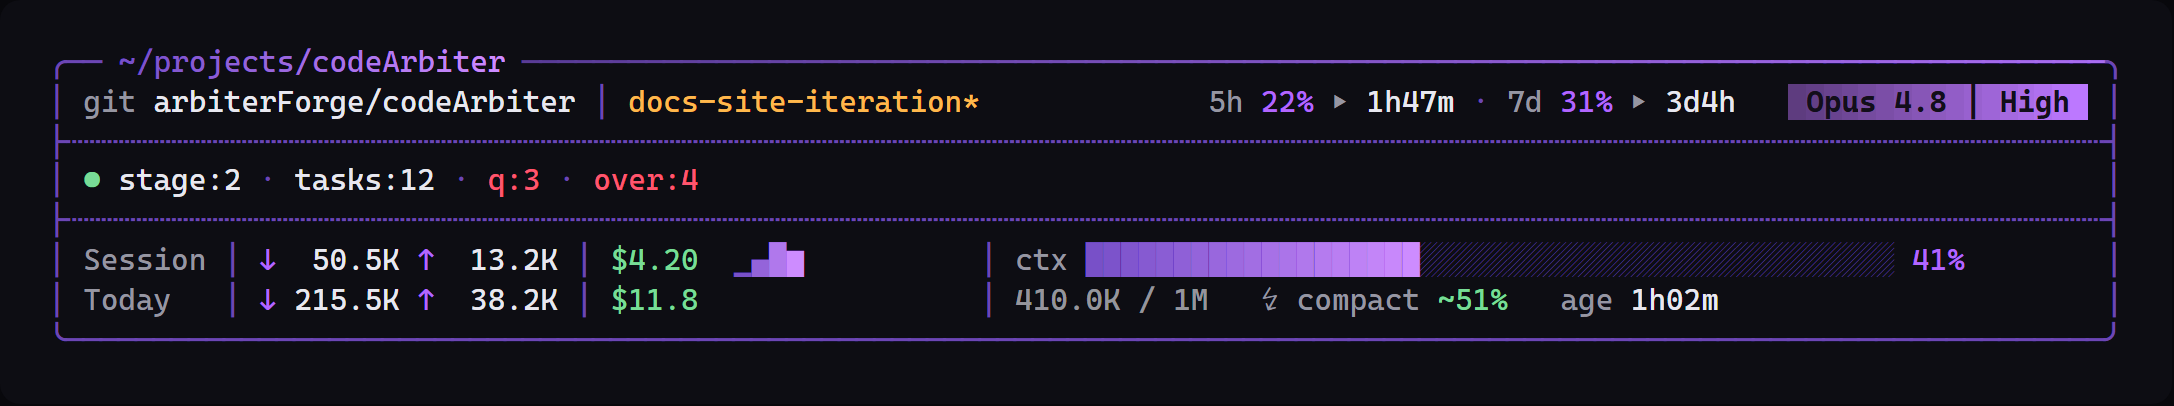
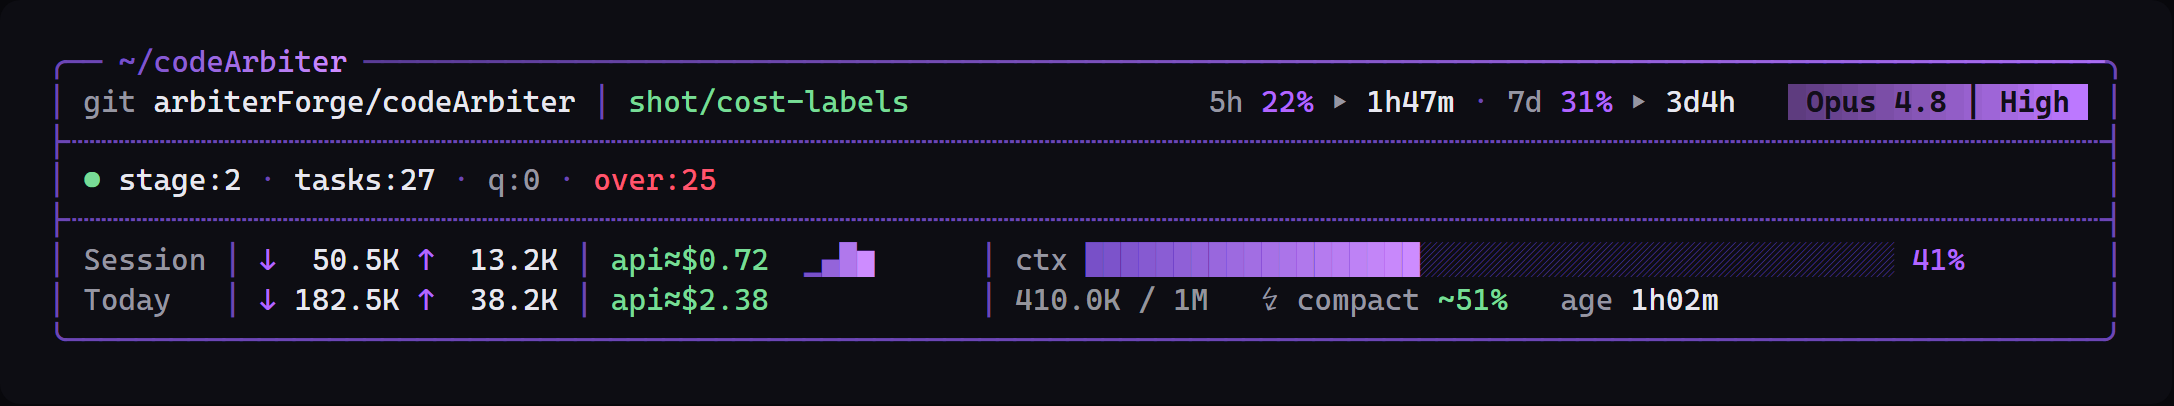
docs(statusline): regenerate the screenshot with coverage labels; accept T-49
The published image still showed the unlabeled host figure. It is now rendered
by the updated screenshot tool through the real ledger (api≈ Session and Today).

diff --git a/.codearbiter/plans/claude-statusline-accounting-integrity.md b/.codearbiter/plans/claude-statusline-accounting-integrity.md
@@ -233,7 +233,7 @@ All test paths are under `plugins/ca/hooks/tests/`, where the tests are plugin-o
 | T-46 | Regenerate shared surfaces after the command-doc change. | generated command surfaces | `python tools/build-surface.py` then `--check`; `sync-core.py --check` | Generated docs parity | AC-31, AC-32 | T-44 | ACCEPTED |
 | T-47 | Close adversarial-matrix combination gaps not already exercised. | tests | `python -m unittest discover -s plugins/ca/hooks/tests -p "test_*.py"` green | Adversarial proof | AC-03, AC-04, AC-05, AC-06, AC-07, AC-08, AC-09, AC-10, AC-11, AC-15, AC-17, AC-18, AC-19, AC-20, AC-23, AC-26, AC-33, AC-35, AC-37, AC-46, AC-47, AC-48, AC-49, AC-50, AC-51, AC-52 | T-43, T-45, T-46 | ACCEPTED |
 | T-48 | Advance affected package versions/changelogs per current release invariants (all adapters that ship synced hooks; root Pi manifest). | plugin manifests, CHANGELOGs, README badge, root `package.json` | Version-guard tests; `python tools/build-host-packages.py --check` | Release consistency | AC-32, AC-34 | T-47 | ACCEPTED |
-| T-49 | Full local verification, then the implementation PR, with hosted exact-head CI green before any completion claim. The PR body answers all eleven Completion Evidence questions and includes the base/head benchmark report. | all touched surfaces; PR metadata | `py_compile`; full unittest discovery; `sync-core --check`; `build-surface --check`; `build-host-packages --check`; `check-plugin-refs.py`; site tests; `gh pr checks` green | Final acceptance | AC-12, AC-13, AC-16, AC-25, AC-27, AC-29, AC-34, AC-39 | T-48 | PENDING |
+| T-49 | Full local verification, then the implementation PR, with hosted exact-head CI green before any completion claim. The PR body answers all eleven Completion Evidence questions and includes the base/head benchmark report. | all touched surfaces; PR metadata | `py_compile`; full unittest discovery; `sync-core --check`; `build-surface --check`; `build-host-packages --check`; `check-plugin-refs.py`; site tests; `gh pr checks` green | Final acceptance | AC-12, AC-13, AC-16, AC-25, AC-27, AC-29, AC-34, AC-39 | T-48 | ACCEPTED |
 
 ## MVP slice
 
